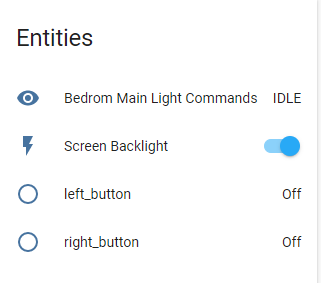
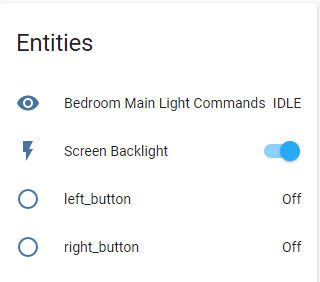
name changes

diff --git a/README.md b/README.md
@@ -23,7 +23,7 @@ This configuration for Apple Remote (aluminum), but it can be replaces by any ot
 ![Image of schematic](https://github.com/anton-semeniak/Esphome-TTGO-T-Display-Remote/blob/master/documents/images/IR_schematic.PNG)
 
 # Home Assistant entities:
-* Bedrom Main Light Commands - sensor for commands from ESPHome
+* Bedroom Main Light Commands - sensor for commands from ESPHome
 * Screen Backlight - switch for backlight 
 * left_button - left onboard button on TTGO T-Display, turn off screen 
 * right_button - right onboard button on TTGO T-Display, turn on screen
